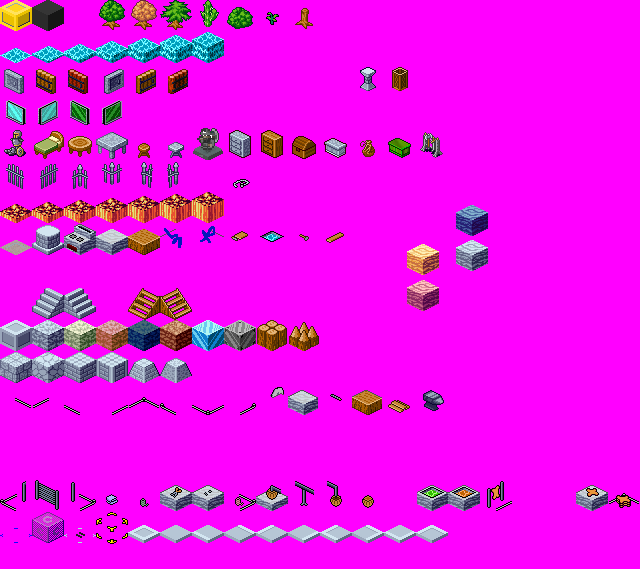
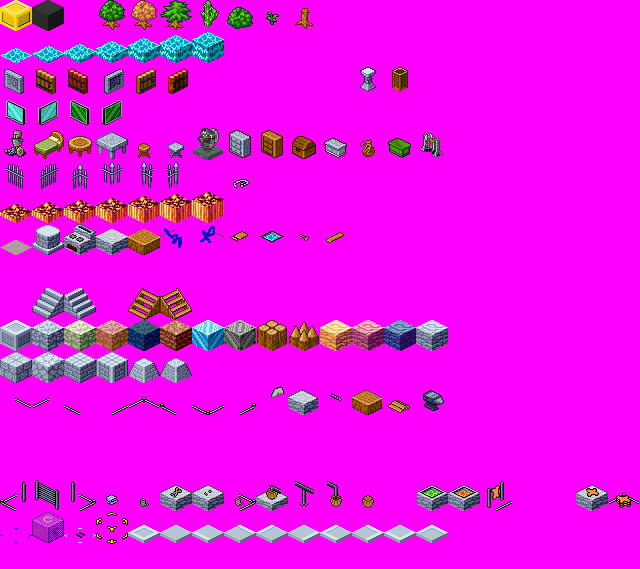
Added configurable wall and floor types, responding to their material index

Changed region(s): [[0.5, 0.3585, 0.7812, 0.6274]]

diff --git a/GroundMaterialConfiguration.cpp b/GroundMaterialConfiguration.cpp
@@ -1,0 +1,86 @@
+#include "common.h"
+#include "GroundMaterialConfiguration.h"
+
+#include "dfhack/library/tinyxml/tinyxml.h"
+
+bool GroundMaterialNamesTranslatedFromGame = false;
+
+vector<GroundMaterialConfiguration> groundTypes;
+vector<GroundMaterialConfiguration> xmlDefinedGroundTypes;
+
+GroundMaterialConfiguration::GroundMaterialConfiguration(char* gameIDstr, int wallSheetIndex,int floorSheetIndex)
+{
+  this->wallSheetIndex = wallSheetIndex;
+  this->floorSheetIndex = floorSheetIndex;
+
+  int len = (int) strlen(gameIDstr);
+  if(len > 100) len = 100;
+  memcpy(this->gameIDstr, gameIDstr, len);
+  this->gameIDstr[len] = 0;
+}
+
+void DumpGroundMaterialNamesToDisk(){
+  FILE* fp = fopen("dump.txt", "w");
+  if(!fp) return;
+  for(uint32_t j=0; j < v_stonetypes.size(); j++){
+    fprintf(fp, "%i:%s\n",j, v_stonetypes[j].id);
+  }
+  fclose(fp);
+}
+
+
+void TranslateGroundMaterialNames(){
+  //create and entry for every known ground material type
+  uint32_t num = (uint32_t) v_stonetypes.size();
+  uint32_t index = 0;
+  while( index < num ){
+    GroundMaterialConfiguration newConfig( v_stonetypes[index].id, INVALID_INDEX, INVALID_INDEX );
+    //add a copy to groundTypes
+    groundTypes.push_back( newConfig );
+    index++;
+  }
+  
+  //now translate configuration data loaded from the XML files
+  uint32_t numConfs = (uint32_t) xmlDefinedGroundTypes.size();
+  index = 0;
+  while( index < numConfs ){
+    char* str = xmlDefinedGroundTypes[index].gameIDstr;
+    //find this string id in the material list, and update the entry
+    for(uint32_t i=0; i<num; i++){
+      if( strcmp( str, groundTypes[i].gameIDstr) != 0) continue;
+      groundTypes[i].floorSheetIndex = xmlDefinedGroundTypes[index].floorSheetIndex;
+      groundTypes[i].wallSheetIndex = xmlDefinedGroundTypes[index].wallSheetIndex;
+      
+    }
+    index++;
+  }
+  GroundMaterialNamesTranslatedFromGame = true;
+}
+
+void LoadGroundMaterialConfiguration(  ){
+
+  char* filename = "GroundMaterials.xml";
+  TiXmlDocument doc( filename );
+  bool loadOkay = doc.LoadFile();
+  TiXmlHandle hDoc(&doc);
+  TiXmlElement* elemMaterial;
+
+  xmlDefinedGroundTypes.clear();
+
+  elemMaterial = hDoc.FirstChildElement("Material").Element();
+  while( elemMaterial ){
+    const char* name = elemMaterial->Attribute("gameID");
+    const char* wallSheetIndexStr = elemMaterial->Attribute("wallSheetIndex");
+    const char* floorSheetIndexStr = elemMaterial->Attribute("floorSheetIndex");
+
+    GroundMaterialConfiguration mat( (char*)name, atoi(wallSheetIndexStr), atoi(floorSheetIndexStr) );
+    //add a copy to known materials list
+    xmlDefinedGroundTypes.push_back( mat );
+    
+    elemMaterial = elemMaterial->NextSiblingElement("Material");
+  }
+
+  GroundMaterialNamesTranslatedFromGame = false;
+  
+}
+

diff --git a/SpriteMaps.cpp b/SpriteMaps.cpp
@@ -1,10 +1,30 @@
 #include "common.h"
 #include "SpriteMaps.h"
+#include "GroundMaterialConfiguration.h"
 
 
 
-int GetWallSpriteMap(int in)
+
+int getFloorSpriteWithDefault( int defaultSprite, int materialIndex ){
+  //do a LOOKUP. not a search! 
+  uint32_t spriteIndex = groundTypes[materialIndex].floorSheetIndex;
+  if(spriteIndex != INVALID_INDEX) 
+    return spriteIndex;
+  return defaultSprite;
+}
+
+
+int getWallSpriteWithDefault( int defaultSprite, int materialIndex ){
+  //do a LOOKUP. not a search! 
+  uint32_t spriteIndex = groundTypes[materialIndex].wallSheetIndex;
+  if(spriteIndex != INVALID_INDEX) 
+    return spriteIndex;
+  return defaultSprite;
+}
+
+int GetWallSpriteMap(int in, int matIndex)
 {
+  int matIndexResult = -1;
     switch (in)
     {
         case 83: //frozen liquid pillar
@@ -60,11 +80,11 @@ int GetWallSpriteMap(int in)
           break;
 
         case 219: //stone wall (not worn)
-          return SPRITEOBJECT_WALL_STONE_ROUGH;
+          return getWallSpriteWithDefault( SPRITEOBJECT_WALL_STONE_ROUGH, matIndex );
           break;
 
         case 440: //minstone wall worn4
-          return SPRITEOBJECT_WALL_MINSTONE_ROUGH;
+          return getWallSpriteWithDefault( SPRITEOBJECT_WALL_MINSTONE_ROUGH, matIndex );
           break;
 
         case 331: //lavastone wall
@@ -156,7 +176,7 @@ int GetWallSpriteMap(int in)
 
 
         case 265: //soil wall
-          return SPRITEOBJECT_WALL_SOIL;
+          return getWallSpriteWithDefault( SPRITEOBJECT_WALL_SOIL, matIndex );
           break;
 
 
@@ -215,7 +235,7 @@ int GetWallSpriteMap(int in)
 
     return SPRITEOBJECT_WALL_NA;
 }
-int GetFloorSpriteMap(int in){
+int GetFloorSpriteMap(int in, int matIndex){
    switch (in)
     {
 			case 2:   //murky pool
@@ -345,7 +365,7 @@ int GetFloorSpriteMap(int in){
 			case 399: //grass floor2b
 			case 400: //grass floor3b
 			case 401: //grass floor4b
-				return SPRITEFLOOR_GRASS;
+				return SPRITEFLOOR_GRASS; 
 
 
 			case 336: //stone floor 1 (raw stone)
@@ -356,14 +376,14 @@ int GetFloorSpriteMap(int in){
 			case 442: //minstone floor 2 (cavern raw)
 			case 443: //minstone floor 3 (cavern raw)
 			case 444: //minstone floor 4 (cavern raw)
-				return SPRITEFLOOR_STONE;
+				return getFloorSpriteWithDefault( SPRITEFLOOR_STONE, matIndex );
 
 
 			case 352: //soil floor 1 (raw)
 			case 353: //soil floor 2 (raw)
 			case 354: //soil floor 3 (raw)
 			case 355: //soil floor 4 (raw)
-				return SPRITEFLOOR_DIRT;
+				return getFloorSpriteWithDefault( SPRITEFLOOR_DIRT, matIndex );
 
 
 			case 405: //stone pebbles 1

diff --git a/MapLoading.cpp b/MapLoading.cpp
@@ -6,6 +6,7 @@
 #include "Constructions.h"
 #include "GameBuildings.h"
 #include "Creatures.h"
+#include "GroundMaterialConfiguration.h"
 
 inline bool IDisWall(int in){
   switch( in ){
@@ -110,7 +111,7 @@ void ReadCellToSegment(DFHackAPI& DF, WorldSegment& segment, int CellX, int Cell
   //read local vein data
   vector <t_vein> veins;
   DF.ReadVeins(CellX,CellY,CellZ,veins);
-  uint32_t numVeins = veins.size();
+  uint32_t numVeins = (uint32_t)veins.size();
 	
 	//parse cell
 	for(uint32_t ly = BoundrySY; ly <= BoundryEY; ly++){
@@ -175,7 +176,7 @@ void ReadCellToSegment(DFHackAPI& DF, WorldSegment& segment, int CellX, int Cell
       //check veins
       for(uint32_t i=0; i<numVeins; i++){
         uint16_t row = veins[i].assignment[ly];
-        bool set = (row & (1 << lx));
+        bool set = (row & (1 << lx)) != 0;
         if(set)
           rockIndex = veins[i].type;
       }
@@ -221,6 +222,9 @@ WorldSegment* ReadMapSegment(int x, int y, int z, int sizex, int sizey, int size
   if(!DF.ReadStoneMatgloss(v_stonetypes)){
     return segment; 
   }
+  if(GroundMaterialNamesTranslatedFromGame == false)
+    TranslateGroundMaterialNames();
+
   //read layers
   vector< vector <uint16_t> > layers;
   if(!DF.ReadGeology( layers ))

diff --git a/main.cpp b/main.cpp
@@ -13,6 +13,7 @@ using namespace std;
 #include "MapLoading.h"
 #include "WorldSegment.h"
 #include "Creatures.h"
+#include "GroundMaterialConfiguration.h"
 
 uint32_t ClockedTime = 0;
 uint32_t ClockedTime2 = 0;
@@ -90,6 +91,7 @@ int main(void)
   //load building configuration information from xml files
   LoadBuildingConfiguration( &buildingTypes );
   LoadCreatureConfiguration( &creatureTypes );
+  LoadGroundMaterialConfiguration( );
 
 	set_color_depth(16);
   int gfxMode = config.Fullscreen ? GFX_AUTODETECT : GFX_AUTODETECT_WINDOWED;
@@ -143,6 +145,7 @@ int main(void)
   //sDisplayedSegmentX = 78; DisplayedSegmentY = 123;DisplayedSegmentZ = 15;
 
   DisplayedSegmentX = 172; DisplayedSegmentY = 325;DisplayedSegmentZ = 16;
+  DisplayedSegmentX = 282; DisplayedSegmentY = 363;DisplayedSegmentZ = 17;
 
   //DisplayedSegmentX = 242; DisplayedSegmentY = 345;DisplayedSegmentZ = 15;
   
@@ -155,7 +158,7 @@ int main(void)
 	reloadDisplayedSegment();
 	if(!viewedSegment) return 1;
 
-  benchmark();
+//  benchmark();
 
 	paintboard();
 	while(!key[KEY_ESC]){

diff --git a/SpriteMaps.h b/SpriteMaps.h
@@ -92,6 +92,10 @@ enum enumFloorSprites{
   SPRITEOBJECT_WALL_METAL = 207,
 	SPRITEOBJECT_WALL_WOOD = 208,
   SPRITEOBJECT_WALL_WOOD_FORTIFICATION = 209,
+  SPRITEOBJECT_WALL_SAND_YELLOW = 210,
+  SPRITEOBJECT_WALL_SAND_RED = 211,
+  SPRITEOBJECT_WALL_SAND_BLACK = 212,
+  SPRITEOBJECT_WALL_SAND_WHITE = 213,
 
 	SPRITEOBJECT_WALL_STONE_SMOOTH = 220,
   //SPRITEOBJECT_WALL_CONSTR_SMOOTH = 73,
@@ -174,8 +178,8 @@ enum BlockIDs{
 };
 
 
-int GetWallSpriteMap(int in);
-int GetFloorSpriteMap(int in);
+int GetWallSpriteMap(int in, int matIndex);
+int GetFloorSpriteMap(int in, int matIndex);
 int GetUpStairTypeMap(int in, bool mirrored);
 int GetDownStairTypeMap(int in);
 int GetRampMaterialTypeMap(int in);

diff --git a/Block.cpp b/Block.cpp
@@ -51,7 +51,7 @@ void Block::Draw(BITMAP* target){
 
 	//Draw Floor
 	if(floorType > 0){
-		sheetOffsetX = TILEWIDTH * GetFloorSpriteMap(floorType);
+    sheetOffsetX = TILEWIDTH * GetFloorSpriteMap(floorType, materialIndex);
 		masked_blit(IMGFloorSheet, target, sheetOffsetX,0, drawx,drawy, TILEWIDTH,TILEHEIGHT);
 
     //Northern frame
@@ -115,7 +115,7 @@ void Block::Draw(BITMAP* target){
   //Draw Walls
 	if(wallType > 0){
     //draw wall
-    int spriteNum =  GetWallSpriteMap(wallType);
+    int spriteNum =  GetWallSpriteMap(wallType, materialIndex);
     DrawSpriteFromSheet( spriteNum, target, IMGObjectSheet, drawx, drawy );
 
     drawy -= (WALLHEIGHT);

diff --git a/GroundMaterialConfiguration.h b/GroundMaterialConfiguration.h
@@ -1,0 +1,19 @@
+#pragma once
+
+class GroundMaterialConfiguration
+{
+public:
+  char gameIDstr[100];
+  int wallSheetIndex;
+  int floorSheetIndex;
+
+  GroundMaterialConfiguration(char* gameIDstr, int wallSheetIndex,int floorSheetIndex);
+  ~GroundMaterialConfiguration(){}
+};
+
+
+void LoadGroundMaterialConfiguration( );
+void TranslateGroundMaterialNames();
+
+extern bool GroundMaterialNamesTranslatedFromGame;
+extern vector<GroundMaterialConfiguration> groundTypes;

diff --git a/UserInput.cpp b/UserInput.cpp
@@ -1,6 +1,7 @@
 #include "common.h"
 #include "GUI.h"
 #include "BuildingConfiguration.h"
+#include "GroundMaterialConfiguration.h"
 #include "GameBuildings.h"
 #include "Creatures.h"
 
@@ -56,6 +57,7 @@ void doKeys(){
   if(key[KEY_G]){
     LoadCreatureConfiguration( &creatureTypes );
     LoadBuildingConfiguration( &buildingTypes );
+    LoadGroundMaterialConfiguration();
 		destroyGraphics();
     loadGraphicsFromDisk();
 

diff --git a/CreatureConfiguration.cpp b/CreatureConfiguration.cpp
@@ -24,7 +24,7 @@ void DumpCreatureNamesToDisk(){
   FILE* fp = fopen("dump.txt", "w");
   if(!fp) return;
   for(uint32_t j=0; j < v_creatureNames.size(); j++){
-    fprintf(fp, "%s\n", v_creatureNames[j].id);
+    fprintf(fp, "%i:%s\n",j, v_creatureNames[j].id);
   }
   fclose(fp);
 }
